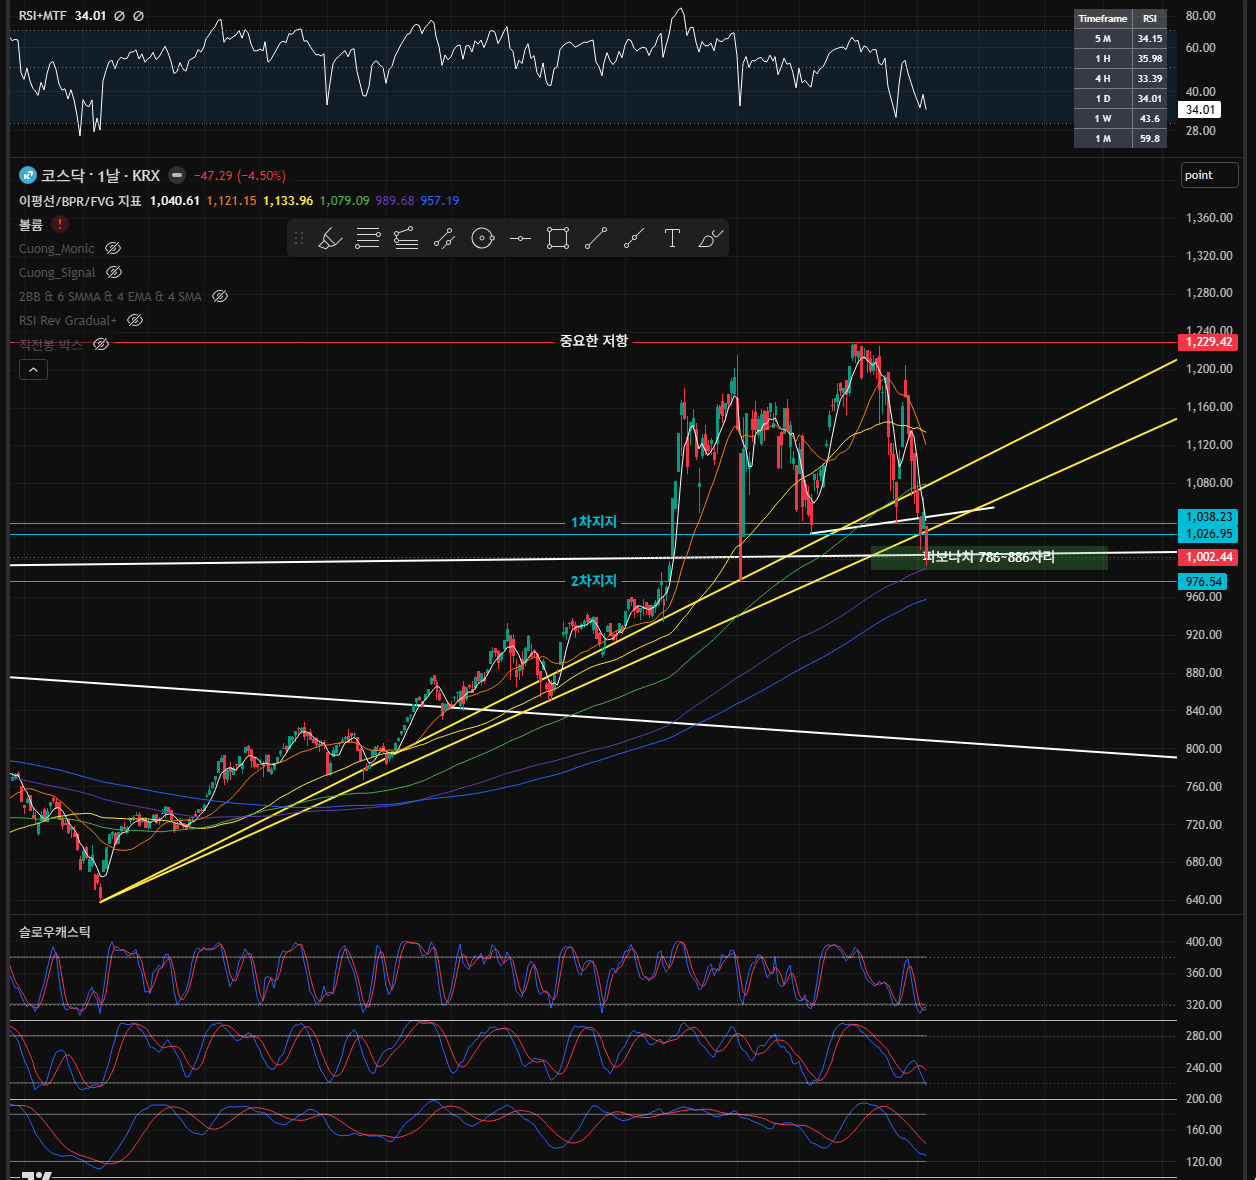
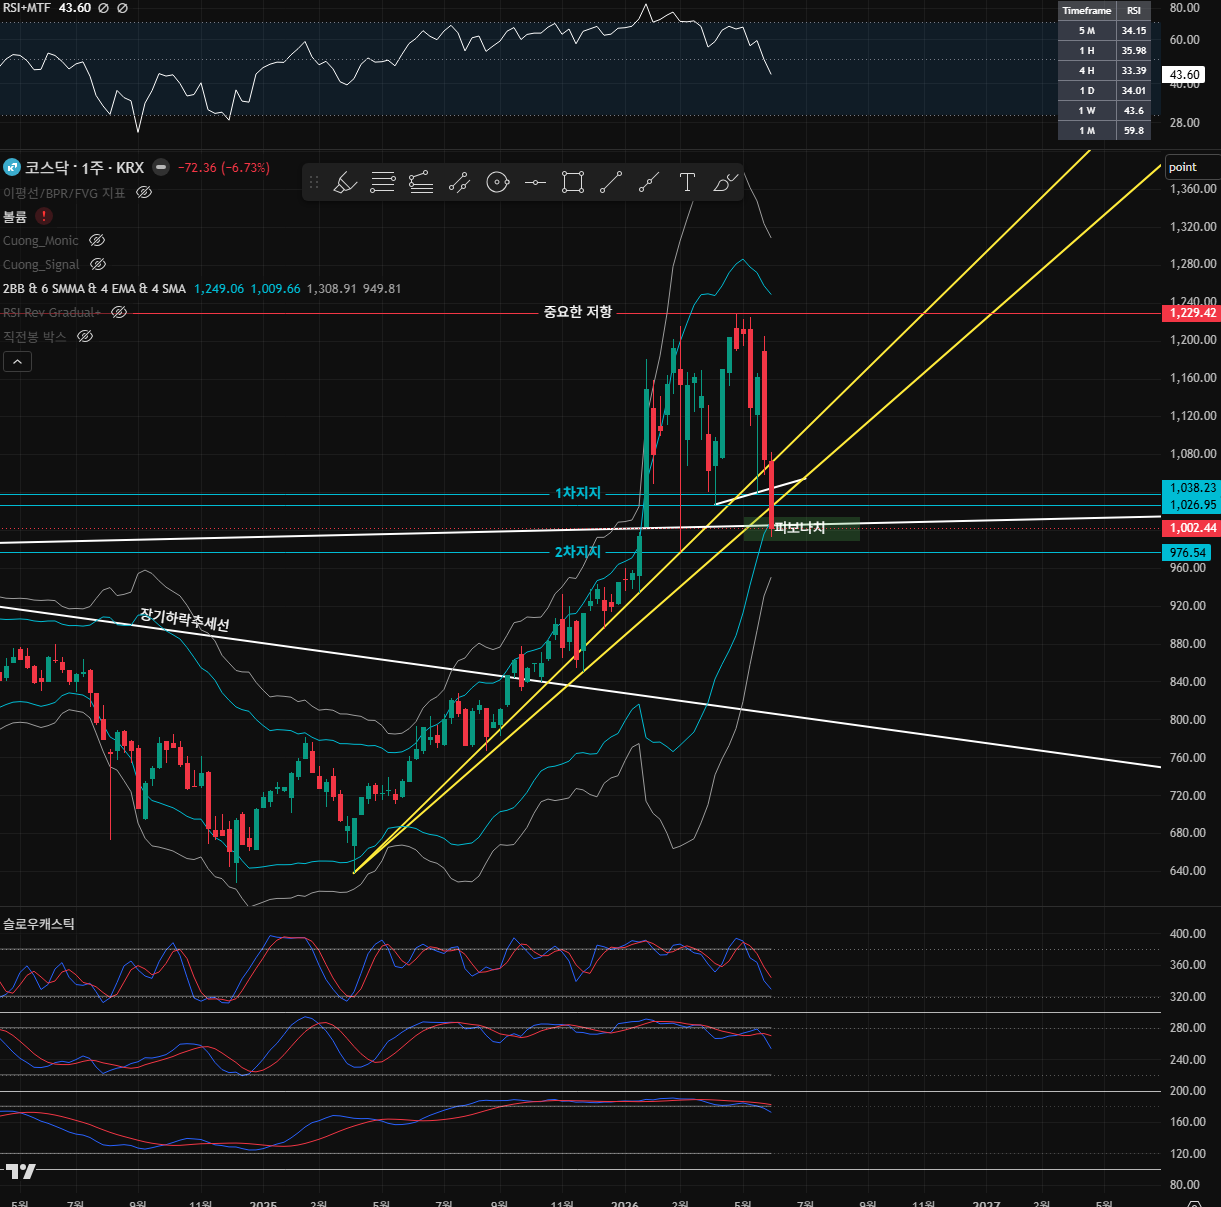
Update published chart reports

diff --git a/index.html b/index.html
@@ -643,6 +643,7 @@
       <div class="toc-list">
         <a href="#record-2026-06-06-kosdaq-html-결론-요약">결론 요약</a>
         <a href="#record-2026-06-06-kosdaq-html-주봉">주봉</a>
+        <a href="#record-2026-06-06-kosdaq-html-일봉">일봉</a>
         <a href="#record-2026-06-06-kosdaq-html-codex-종합-의견">Codex 종합 의견</a>
         <a href="#record-2026-06-06-kosdaq-html-현재-판단">현재 판단</a>
         <a href="#record-2026-06-06-kosdaq-html-다음-대응">다음 대응</a>
@@ -660,7 +661,7 @@
 <li>자산군: 한국 주식</li>
 <li>구분: 시장</li>
 <li>시간봉 흐름: 주봉 -&gt; 일봉 예정</li>
-<li>입력 상태: 주봉 차트와 관점 반영. 일봉 입력 전. 주봉 이미지는 저장 완료.</li>
+<li>입력 상태: 주봉 차트와 관점 반영. 주봉 볼린저밴드 이미지는 교체 완료. 기존 볼린저밴드 이미지는 일봉 이미지로 재분류. 일봉 상세 관점 입력 전.</li>
 </ul>
 <h2 id="record-2026-06-06-kosdaq-html-결론-요약">결론 요약</h2>
 <ul>
@@ -710,6 +711,11 @@
 <li>야간선물 급락 우려가 있어 2026-06-08 월요일 갭하락 리스크를 기본 시나리오에 포함한다.</li>
 <li>다만 야간선물 -8% 수치는 현재 기록에서는 사용자의 입력으로 남기고, 실제 수치 확인은 별도 확인이 필요하다.</li>
 </ul>
+<h2 id="record-2026-06-06-kosdaq-html-일봉">일봉</h2>
+<p><a class="image-link" href="assets/2026-06-06/kosdaq_daily_bollinger_01.png"><img src="assets/2026-06-06/kosdaq_daily_bollinger_01.png" alt="코스닥 일봉 볼린저밴드 차트"></a></p>
+<h3 id="record-2026-06-06-kosdaq-html-내가-본-차트-관점-2">내가 본 차트 관점</h3>
+<p>이 이미지는 처음에 주봉 볼린저밴드 이미지로 잘못 들어갔던 차트다. 현재 기록에서는 일봉 볼린저밴드 이미지로 바로잡아 둔다.</p>
+<p>일봉 상세 관점은 아직 입력 전이다. 다음 일봉 입력에서는 976.54 이탈 여부, 갭하락 후 회복 여부, 볼린저밴드 하단선 반응, 종가 위치를 같이 봐야 한다.</p>
 <h2 id="record-2026-06-06-kosdaq-html-codex-종합-의견">Codex 종합 의견</h2>
 <p>이번 주봉 업데이트는 기존 강세 또는 조건부 버티기 가설에 매우 나쁜 변화다. 6월 2일 기록에서는 가격 추세선, 주봉 RSI 추세선, 976.54 로스 기준이 남아 있어 <code>위험한 지지 테스트</code>로 볼 수 있었다. 지금은 그중 가격 추세선과 RSI 추세선이 먼저 무너졌고, 마지막으로 976.54만 남은 상태다.</p>
 <p>네가 스스로 “RSI 50 중반 반등 가설이 틀렸다”, “소스토가 내려오지 않을 것이라는 예측이 틀렸다”고 인정한 것은 중요하다. 이 기록에서 가장 큰 의미는 새 희망을 찾는 것이 아니라, 어떤 근거가 실제로 실패했는지 분명히 남기는 데 있다.</p>
@@ -771,8 +777,9 @@
 </ul>
 <h2 id="record-2026-06-06-kosdaq-html-결과-및-복기">결과 및 복기</h2>
 <ul>
-<li>2026-06-06 현재 주봉 입력까지 반영.</li>
-<li>다음 입력은 코스닥 일봉.</li>
+<li>2026-06-06 현재 주봉 입력과 주봉 볼린저밴드 이미지 교체까지 반영.</li>
+<li>기존에 주봉으로 잘못 들어간 볼린저밴드 이미지는 일봉 이미지로 재분류했다.</li>
+<li>다음 입력은 코스닥 일봉 상세 관점.</li>
 </ul>
       </article>
       <article class="record-panel" id="record-2026-06-02-secondary-battery-industry-html" data-record-panel>

diff --git a/2026-06-06/kosdaq.html b/2026-06-06/kosdaq.html
@@ -181,6 +181,7 @@
       <div class="toc-list">
         <a href="#결론-요약">결론 요약</a>
         <a href="#주봉">주봉</a>
+        <a href="#일봉">일봉</a>
         <a href="#codex-종합-의견">Codex 종합 의견</a>
         <a href="#현재-판단">현재 판단</a>
         <a href="#다음-대응">다음 대응</a>
@@ -198,7 +199,7 @@
 <li>자산군: 한국 주식</li>
 <li>구분: 시장</li>
 <li>시간봉 흐름: 주봉 -&gt; 일봉 예정</li>
-<li>입력 상태: 주봉 차트와 관점 반영. 일봉 입력 전. 주봉 이미지는 저장 완료.</li>
+<li>입력 상태: 주봉 차트와 관점 반영. 주봉 볼린저밴드 이미지는 교체 완료. 기존 볼린저밴드 이미지는 일봉 이미지로 재분류. 일봉 상세 관점 입력 전.</li>
 </ul>
 <h2 id="결론-요약">결론 요약</h2>
 <ul>
@@ -248,6 +249,11 @@
 <li>야간선물 급락 우려가 있어 2026-06-08 월요일 갭하락 리스크를 기본 시나리오에 포함한다.</li>
 <li>다만 야간선물 -8% 수치는 현재 기록에서는 사용자의 입력으로 남기고, 실제 수치 확인은 별도 확인이 필요하다.</li>
 </ul>
+<h2 id="일봉">일봉</h2>
+<p><a class="image-link" href="../assets/2026-06-06/kosdaq_daily_bollinger_01.png"><img src="../assets/2026-06-06/kosdaq_daily_bollinger_01.png" alt="코스닥 일봉 볼린저밴드 차트"></a></p>
+<h3 id="내가-본-차트-관점-2">내가 본 차트 관점</h3>
+<p>이 이미지는 처음에 주봉 볼린저밴드 이미지로 잘못 들어갔던 차트다. 현재 기록에서는 일봉 볼린저밴드 이미지로 바로잡아 둔다.</p>
+<p>일봉 상세 관점은 아직 입력 전이다. 다음 일봉 입력에서는 976.54 이탈 여부, 갭하락 후 회복 여부, 볼린저밴드 하단선 반응, 종가 위치를 같이 봐야 한다.</p>
 <h2 id="codex-종합-의견">Codex 종합 의견</h2>
 <p>이번 주봉 업데이트는 기존 강세 또는 조건부 버티기 가설에 매우 나쁜 변화다. 6월 2일 기록에서는 가격 추세선, 주봉 RSI 추세선, 976.54 로스 기준이 남아 있어 <code>위험한 지지 테스트</code>로 볼 수 있었다. 지금은 그중 가격 추세선과 RSI 추세선이 먼저 무너졌고, 마지막으로 976.54만 남은 상태다.</p>
 <p>네가 스스로 “RSI 50 중반 반등 가설이 틀렸다”, “소스토가 내려오지 않을 것이라는 예측이 틀렸다”고 인정한 것은 중요하다. 이 기록에서 가장 큰 의미는 새 희망을 찾는 것이 아니라, 어떤 근거가 실제로 실패했는지 분명히 남기는 데 있다.</p>
@@ -309,8 +315,9 @@
 </ul>
 <h2 id="결과-및-복기">결과 및 복기</h2>
 <ul>
-<li>2026-06-06 현재 주봉 입력까지 반영.</li>
-<li>다음 입력은 코스닥 일봉.</li>
+<li>2026-06-06 현재 주봉 입력과 주봉 볼린저밴드 이미지 교체까지 반영.</li>
+<li>기존에 주봉으로 잘못 들어간 볼린저밴드 이미지는 일봉 이미지로 재분류했다.</li>
+<li>다음 입력은 코스닥 일봉 상세 관점.</li>
 </ul>
   </main>
 </body>

diff --git a/gallery.html b/gallery.html
@@ -72,8 +72,18 @@
       <div class="meta">
         <strong>kosdaq</strong>
         <span>weekly_bollinger</span>
-        <span>2026-06-06 20:39:27</span>
+        <span>2026-06-06 20:46:23</span>
         <span>캡처 저장</span>
+        <span>212.4 KB</span>
+      </div>
+    </article>
+    <article class="card">
+      <img src="assets/2026-06-06/kosdaq_daily_bollinger_01.png" alt="kosdaq daily chart">
+      <div class="meta">
+        <strong>kosdaq</strong>
+        <span>daily</span>
+        <span>2026-06-06 20:39:27</span>
+        <span>기존 이미지</span>
         <span>264.8 KB</span>
       </div>
     </article>
